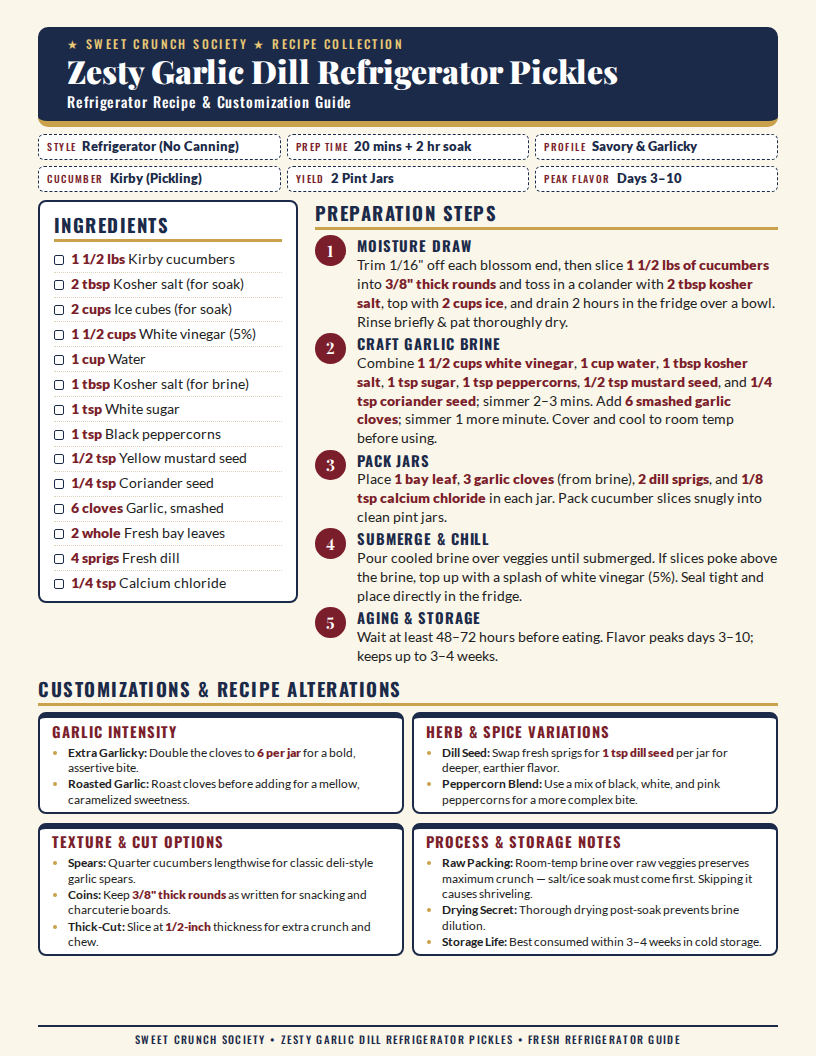
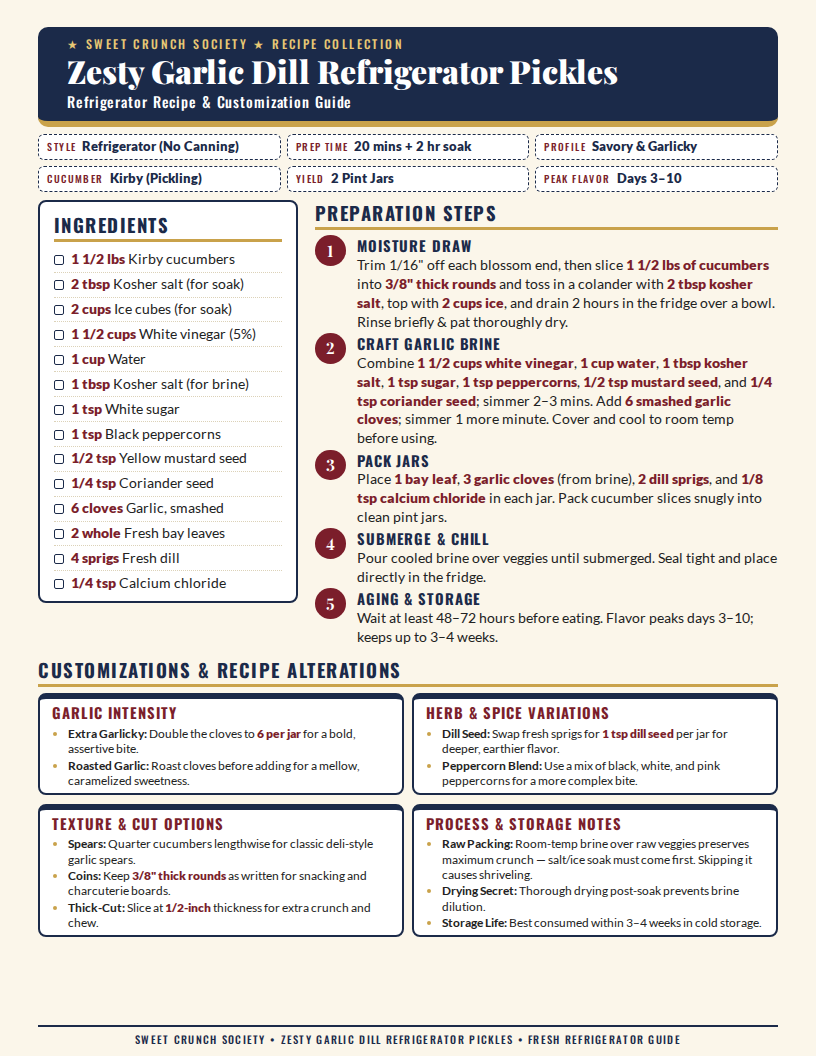
docs: remove vinegar top-up sentence from Submerge & Chill step
Dropped "If slices poke above the brine, top up with a splash of white
vinegar (5%)." from both recipe cards. The step now reads "Pour cooled
brine over veggies until submerged. Seal tight and place directly in the
fridge." Regenerated both preview PNGs.

Changed region(s): [[0.0306, 0.5, 0.9498, 0.9062]]

diff --git a/index.html b/index.html
@@ -171,7 +171,7 @@
           <li><b>Moisture Draw</b>Trim 1/16" off each blossom end, then slice <strong>1 1/2 lbs of cucumbers</strong> into <strong>3/8" thick rounds</strong> and toss in a colander with <strong>2 tbsp kosher salt</strong>, top with <strong>2 cups ice</strong>, and drain 2 hours in the fridge over a bowl. Rinse briefly &amp; pat thoroughly dry.</li>
           <li><b>Craft Sweet Brine</b>Simmer <strong>1 1/2 cups white vinegar</strong>, <strong>1 1/4 cups white sugar</strong>, <strong>1/4 cup brown sugar</strong>, <strong>1/2 tsp kosher salt</strong>, <strong>1 tbsp mustard seed</strong>, <strong>8–10 black peppercorns</strong>, <strong>3/4 tsp celery seed</strong>, <strong>1/2 tsp turmeric</strong>, and <strong>1/8 tsp ground cloves</strong> 2–3 mins until sugar dissolves. Cover and cool to room temp before using.</li>
           <li><b>Pack Jars</b>Place <strong>1 bay leaf</strong>, <strong>1 pearl onion</strong> (peeled &amp; halved), and <strong>1/8 tsp calcium chloride</strong> in each jar. Pack raw cucumber slices snugly into clean pint jars.</li>
-          <li><b>Submerge &amp; Chill</b>Pour cooled brine over veggies until submerged. If slices poke above the brine, top up with a splash of white vinegar (5%). Seal tight and place directly in the fridge.</li>
+          <li><b>Submerge &amp; Chill</b>Pour cooled brine over veggies until submerged. Seal tight and place directly in the fridge.</li>
           <li><b>Aging &amp; Storage</b>Chill at least 24–48 hours before eating. Flavors peak <span style="white-space:nowrap">days 5–14</span>; keeps up to 1 month.</li>
         </ol>
       </section>

diff --git a/index-zesty.html b/index-zesty.html
@@ -165,7 +165,7 @@
           <li><b>Moisture Draw</b>Trim 1/16" off each blossom end, then slice <strong>1 1/2 lbs of cucumbers</strong> into <strong>3/8" thick rounds</strong> and toss in a colander with <strong>2 tbsp kosher salt</strong>, top with <strong>2 cups ice</strong>, and drain 2 hours in the fridge over a bowl. Rinse briefly &amp; pat thoroughly dry.</li>
           <li><b>Craft Garlic Brine</b>Combine <strong>1 1/2 cups white vinegar</strong>, <strong>1 cup water</strong>, <strong>1 tbsp kosher salt</strong>, <strong>1 tsp sugar</strong>, <strong>1 tsp peppercorns</strong>, <strong>1/2 tsp mustard seed</strong>, and <strong>1/4 tsp coriander seed</strong>; simmer 2–3 mins. Add <strong>6 smashed garlic cloves</strong>; simmer 1 more minute. Cover and cool to room temp before using.</li>
           <li><b>Pack Jars</b>Place <strong>1 bay leaf</strong>, <strong>3 garlic cloves</strong> (from brine), <strong>2 dill sprigs</strong>, and <strong>1/8 tsp calcium chloride</strong> in each jar. Pack cucumber slices snugly into clean pint jars.</li>
-          <li><b>Submerge &amp; Chill</b>Pour cooled brine over veggies until submerged. If slices poke above the brine, top up with a splash of white vinegar (5%). Seal tight and place directly in the fridge.</li>
+          <li><b>Submerge &amp; Chill</b>Pour cooled brine over veggies until submerged. Seal tight and place directly in the fridge.</li>
           <li><b>Aging &amp; Storage</b>Wait at least 48–72 hours before eating. Flavor peaks <span style="white-space:nowrap">days 3–10</span>; keeps up to 3–4 weeks.</li>
         </ol>
       </section>
